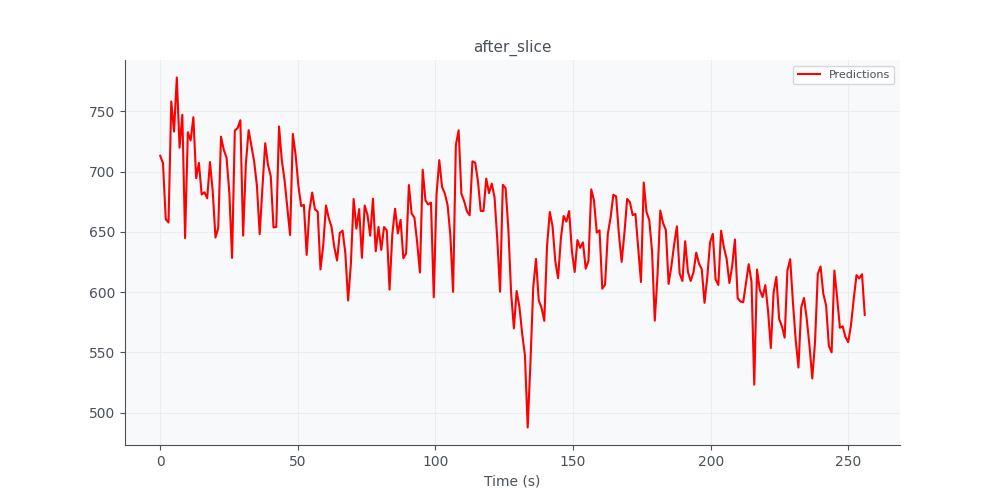
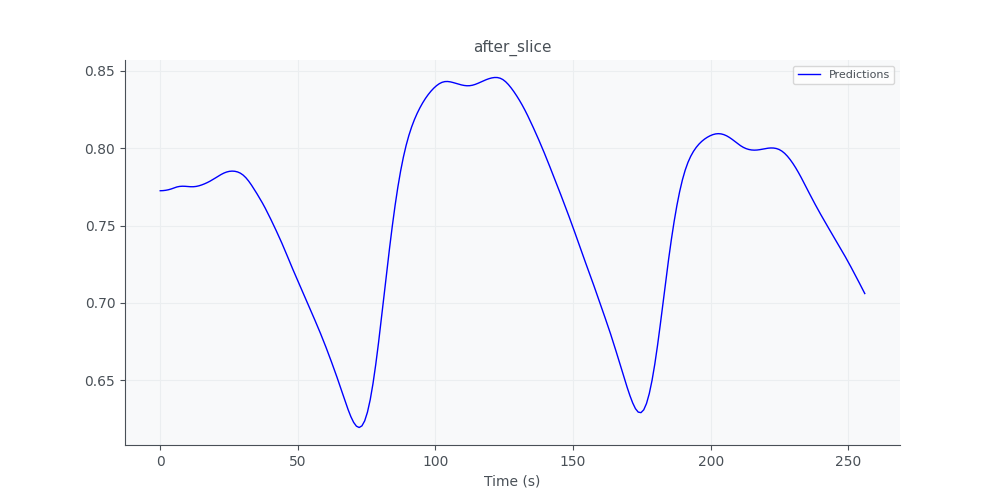
Further PPG preprocessing

diff --git a/dataloaders/DEAP_dataloader.py b/dataloaders/DEAP_dataloader.py
@@ -15,17 +15,21 @@ import torch
 import numpy as np
 import pandas as pd
 from datasets.DEAP_dataset import DEAPDataset
-from utils.ppg_utils import wavelet_transform, stft
+from utils.ppg_utils import wavelet_transform, stft, signaltonoise
 from sklearn.model_selection import train_test_split, GroupShuffleSplit
 from scipy import signal
 from packages.rppg_toolbox.utils.plot import plot_signal
+import warnings
+from scipy.signal import butter, filtfilt
+warnings.filterwarnings('ignore')
 
 # Sample rate is 128hz
 # Signals are 8064 long
 # Each signal is 63 seconds long
 
 
-PLOT_DEBUG_INDEX = 1
+PLOT_DEBUG_INDEX = 861
+BAD_SIGNAL_INDEX = 10
 
 class DEAPDataLoader(DataLoader):
     def __init__(self,
@@ -34,9 +38,37 @@ class DEAPDataLoader(DataLoader):
         self.data = self.load_data()
         self.data["valence"] = self.data["valence"].apply(lambda x: self.discretize_labels(torch.tensor(x)))
         plot_signal(self.data["ppg"].iloc[PLOT_DEBUG_INDEX], "original")
+        print("Detrending signal...")
         self.data["ppg"] = self.data["ppg"].apply(lambda x: self.detrend_ppg(np.array(x)))
         plot_signal(self.data["ppg"].iloc[PLOT_DEBUG_INDEX], "detrended")
-            
+        print("Bandpass filtering...")
+        self.data["ppg"] = self.data["ppg"].apply(lambda x: self.bandpass_filter_ppg(np.array(x)))
+        plot_signal(self.data["ppg"].iloc[PLOT_DEBUG_INDEX], "bandpass_filtered")
+        print("Moving average filtering...")
+        self.data["ppg"] = self.data["ppg"].apply(lambda x: self.moving_average_filter(x))
+        plot_signal(self.data["ppg"].iloc[PLOT_DEBUG_INDEX], "moving_average_filtered")
+        
+        self.data["stn"] = self.data["ppg"].apply(lambda x: signaltonoise(x))
+        
+        print("plotting good and bad signals...")
+        bad_signal_plot = 0
+        good_signal_plot = 0
+        for i, row in self.data.iterrows():
+            if bad_signal_plot > 5 and good_signal_plot > 5:
+                break
+            ppg, stn = row["ppg"], row["stn"]
+            print(f"stn for i: {i} is: {stn}")
+            if stn >= -0.02 and good_signal_plot <=5:
+                plot_signal(np.array(ppg), f"debug_plots/good_signal_{good_signal_plot}_{i}")
+                good_signal_plot +=1 
+            if stn < -0.02 and bad_signal_plot <= 5:
+                plot_signal(np.array(ppg), f"debug_plots/bad_signal_{bad_signal_plot}_{i}")
+                bad_signal_plot += 1
+        
+        print(f"Data before filtering bad signals: {len(self.data)}")
+        self.data = self.data.query('stn > -0.02')
+        print(f"Data after filtering bad signals: {len(self.data)}")
+
         print("Performing min-max normalization")
         self.data = self.normalize_data(self.data)
         
@@ -70,7 +102,6 @@ class DEAPDataLoader(DataLoader):
         # metadata_dir = os.path.join(DATA_DIR, "DEAP", "metadata")
         ppg_channel = 38
         df = []
-
         for i, file in enumerate(os.listdir(data_dir)):
             if not file.endswith(".dat"):
                 continue
@@ -86,6 +117,60 @@ class DEAPDataLoader(DataLoader):
                     df.append({"ppg": data, "valence": valence, "subject": i})
         return pd.DataFrame(df)
     
+    def moving_average_filter(self, data, window_size=10):
+      """
+      Applies a moving average filter to a 1D NumPy array.
+
+      Args:
+          data: The 1D NumPy array to filter.
+          window_size: The size of the moving average window (positive integer).
+
+      Returns:
+          The filtered 1D NumPy array.
+      """
+
+      # Check for valid window size
+      if window_size <= 0:
+        raise ValueError("Window size must be a positive integer.")
+
+      # Calculate the number of elements to pad at the beginning and end
+      pad_size = window_size // 2
+
+      # Pad the data with mirrored values at the beginning and end
+      padded_data = np.concatenate((data[:pad_size][::-1], data, data[-pad_size:][::-1]))
+
+      # Apply moving average using convolution
+      smoothed_data = np.convolve(padded_data, np.ones(window_size) / window_size, mode='valid')
+
+      return smoothed_data
+
+    def bandpass_filter_ppg(self, data, fs=128, lowcut=0.5, highcut=20, order=5):
+      """
+      Bandpass filters a PPG signal using a Butterworth filter.
+
+      Args:
+          data: The PPG signal as a numpy array.
+          fs: The sampling frequency of the signal in Hz.
+          lowcut: Lower cutoff frequency of the bandpass filter in Hz.
+          highcut: Higher cutoff frequency of the bandpass filter in Hz.
+          order: The order of the Butterworth filter (default: 5).
+
+      Returns:
+          The filtered PPG signal as a numpy array.
+      """
+
+      nyquist = 0.5 * fs
+      lowcut_norm = lowcut / nyquist
+      highcut_norm = highcut / nyquist
+
+      # Design the Butterworth filter
+      b, a = butter(order, [lowcut_norm, highcut_norm], btype='band')
+
+      # Apply the filter twice (filtfilt) for zero-phase filtering
+      filtered_data = filtfilt(b, a, data)
+
+      return filtered_data
+
     def normalize_data(self, df):
         """
         Compute the min and max value per subject and uses min-max scaling in order to normalize the data.
@@ -102,7 +187,8 @@ class DEAPDataLoader(DataLoader):
                 if _max > min_max_mapping[subject]["_max"]:
                     min_max_mapping[subject]["_max"] = _max
         
-        alpha = 1000
+        # alpha = 1000
+        alpha = 1
         new_df = []
         for i, row in df.iterrows():
             ppg, subject, valence = row["ppg"], row["subject"], row["valence"]
@@ -130,7 +216,7 @@ class DEAPDataLoader(DataLoader):
     def detrend_ppg(self, ppg_signal):
         x = np.linspace(0, ppg_signal.shape[0], ppg_signal.shape[0])
         # print(f"x shape is: {x.shape}, while ppg_signal shape is {ppg_signal.shape}")
-        model = np.polyfit(x, ppg_signal, 10)
+        model = np.polyfit(x, ppg_signal, 50)
         predicted = np.polyval(model, x)
         return ppg_signal - predicted
         return signal.detrend(ppg_signal)

diff --git a/train/loops/train_loop_emotion_DEAP.py b/train/loops/train_loop_emotion_DEAP.py
@@ -86,7 +86,7 @@ def train_eval_loop(device,
 
             loss = criterion(output, target)
             loss.backward()
-            torch.nn.utils.clip_grad_norm_(model.parameters(), 1.0)
+            # torch.nn.utils.clip_grad_norm_(model.parameters(), 1.0)
             optimizer.step()
             losses.append(loss.item())
 
@@ -129,22 +129,22 @@ def train_eval_loop(device,
         print(f"Validation | Epoch {epoch} | Loss: {torch.tensor(val_losses).mean():.4f} | Accuracy: {(val_accuracy_metric.compute() * 100):.4f} | Recall: {(val_recall_metric.compute() * 100):.4f}")
         print("-" * 50)
     
-        # if val_accuracy_metric.compute() > best_accuracy:
-        #     print(f"Best model saved (accuracy: {val_accuracy_metric.compute()}, previous: {best_accuracy}")
-        #     best_accuracy = val_accuracy_metric.compute()
-        #     best_model = copy.deepcopy(model)
-        #     if SAVE_MODELS:
-        #       save_model(data_name, model, epoch)
-        # current_results = {
-        #     'epoch': epoch+1,
-        #     'training_loss': torch.tensor(losses).mean().item(),
-        #     'training_accuracy': accuracy_metric.compute().item(),
-        #     'training_recall': recall_metric.compute().item(),
-        #     'validation_loss': torch.tensor(val_losses).mean().item(),
-        #     'validation_accuracy': val_accuracy_metric.compute().item(),
-        #     'validation_recall': val_recall_metric.compute().item(),
-        # }
-        # if SAVE_RESULTS:
-        #     save_results(data_name, current_results)
-        # if epoch == config["epochs"]-1 and SAVE_MODELS:
-        #     save_model(data_name, best_model, epoch=None, is_best=True)
+        if val_accuracy_metric.compute() > best_accuracy:
+            print(f"Best model saved (accuracy: {val_accuracy_metric.compute()}, previous: {best_accuracy}")
+            best_accuracy = val_accuracy_metric.compute()
+            best_model = copy.deepcopy(model)
+            if SAVE_MODELS:
+              save_model(data_name, model, epoch)
+        current_results = {
+            'epoch': epoch+1,
+            'training_loss': torch.tensor(losses).mean().item(),
+            'training_accuracy': accuracy_metric.compute().item(),
+            'training_recall': recall_metric.compute().item(),
+            'validation_loss': torch.tensor(val_losses).mean().item(),
+            'validation_accuracy': val_accuracy_metric.compute().item(),
+            'validation_recall': val_recall_metric.compute().item(),
+        }
+        if SAVE_RESULTS:
+            save_results(data_name, current_results)
+        if epoch == config["epochs"]-1 and SAVE_MODELS:
+            save_model(data_name, best_model, epoch=None, is_best=True)

diff --git a/utils/ppg_utils.py b/utils/ppg_utils.py
@@ -4,6 +4,7 @@ import numpy as np
 import pandas as pd
 from biosppy.signals import bvp
 from config import WAVELET_STEP, LENGTH
+from scipy.signal import welch, filtfilt, butter
 
 def statistical_features(x: torch.Tensor) -> torch.Tensor:
     mean = torch.mean(x, dim=1).unsqueeze(0)
@@ -48,6 +49,33 @@ def onsets_and_hr(x):
     delta = onsets.shape[1] - hr.shape[1]
     onsets = onsets[:, :-delta]
     return torch.cat((onsets, hr), dim=0)
+
+def power_spectrum(ppg_data, fs=128):
+  """
+  Calculates the power spectrum of a PPG signal.
+
+  Args:
+      ppg_data: The PPG signal as a NumPy array.
+      fs: The sampling frequency of the signal in Hz.
+
+  Returns:
+      A tuple containing:
+          - frequencies: An array of frequencies corresponding to the power spectrum.
+          - power_density: An array of power spectral density values.
+  """
+
+  # Welch's method is a common approach for estimating power spectra
+  frequencies, power_density = welch(ppg_data, fs=fs, nperseg=1024, window='hann')
+
+  return frequencies, power_density
+
+
+def signaltonoise(a, axis=0, ddof=0):
+    a = np.asanyarray(a)
+    m = a.mean(axis)
+    sd = a.std(axis=axis, ddof=ddof)
+    return np.where(sd == 0, 0, m/sd)
+
 
 
 if __name__ == "__main__":

diff --git a/models/EmotionNetDEAP.py b/models/EmotionNetDEAP.py
@@ -76,6 +76,7 @@ class EmotionNet(nn.Module):
         #         nn.Linear(512, EMOTION_NUM_CLASSES))
 
         self.fc = nn.Linear(512, EMOTION_NUM_CLASSES)
+        # self.fc = nn.Linear(hidden_size, EMOTION_NUM_CLASSES)
     def forward(self, x):
         x = x.unsqueeze(1)
         CNN_embedding = self.CNN_block(x)
@@ -92,6 +93,7 @@ class EmotionNet(nn.Module):
 
         # complete_embedding = torch.cat([CNN_embedding, lstm_embedding], dim=1)
         complete_embedding = CNN_embedding
+        # complete_embedding = lstm_embedding
         output_logits = self.fc(complete_embedding)  
         # print(f"output logits are: {output_logits}")
         # print(f"preds are: {output_logits.argmax(1)}")

diff --git a/packages/rppg_toolbox/utils/plot.py b/packages/rppg_toolbox/utils/plot.py
@@ -4,7 +4,7 @@ import numpy as np
 def plot_signal(data: np.ndarray, title: str) -> None:
     x_time = np.linspace(0, data.shape[0], num=data.shape[0])
     plt.figure(figsize=(10,5))
-    plt.plot(x_time, data, color='r')
+    plt.plot(x_time, data, color='b', linewidth=1)
     plt.title(title)
     plt.legend(['Predictions', ])
     plt.xlabel('Time (s)');

diff --git a/config.py b/config.py
@@ -34,7 +34,7 @@ RESUME_EPOCH = ""
 # Train configurations
 BATCH_SIZE = 128 # Max (for ViT): 256 | Max (for CNN): 64
 N_EPOCHS = 500
-LR = 1e-3
+LR = 1e-2
 REG = 0
 DROPOUT_P = 0
 
